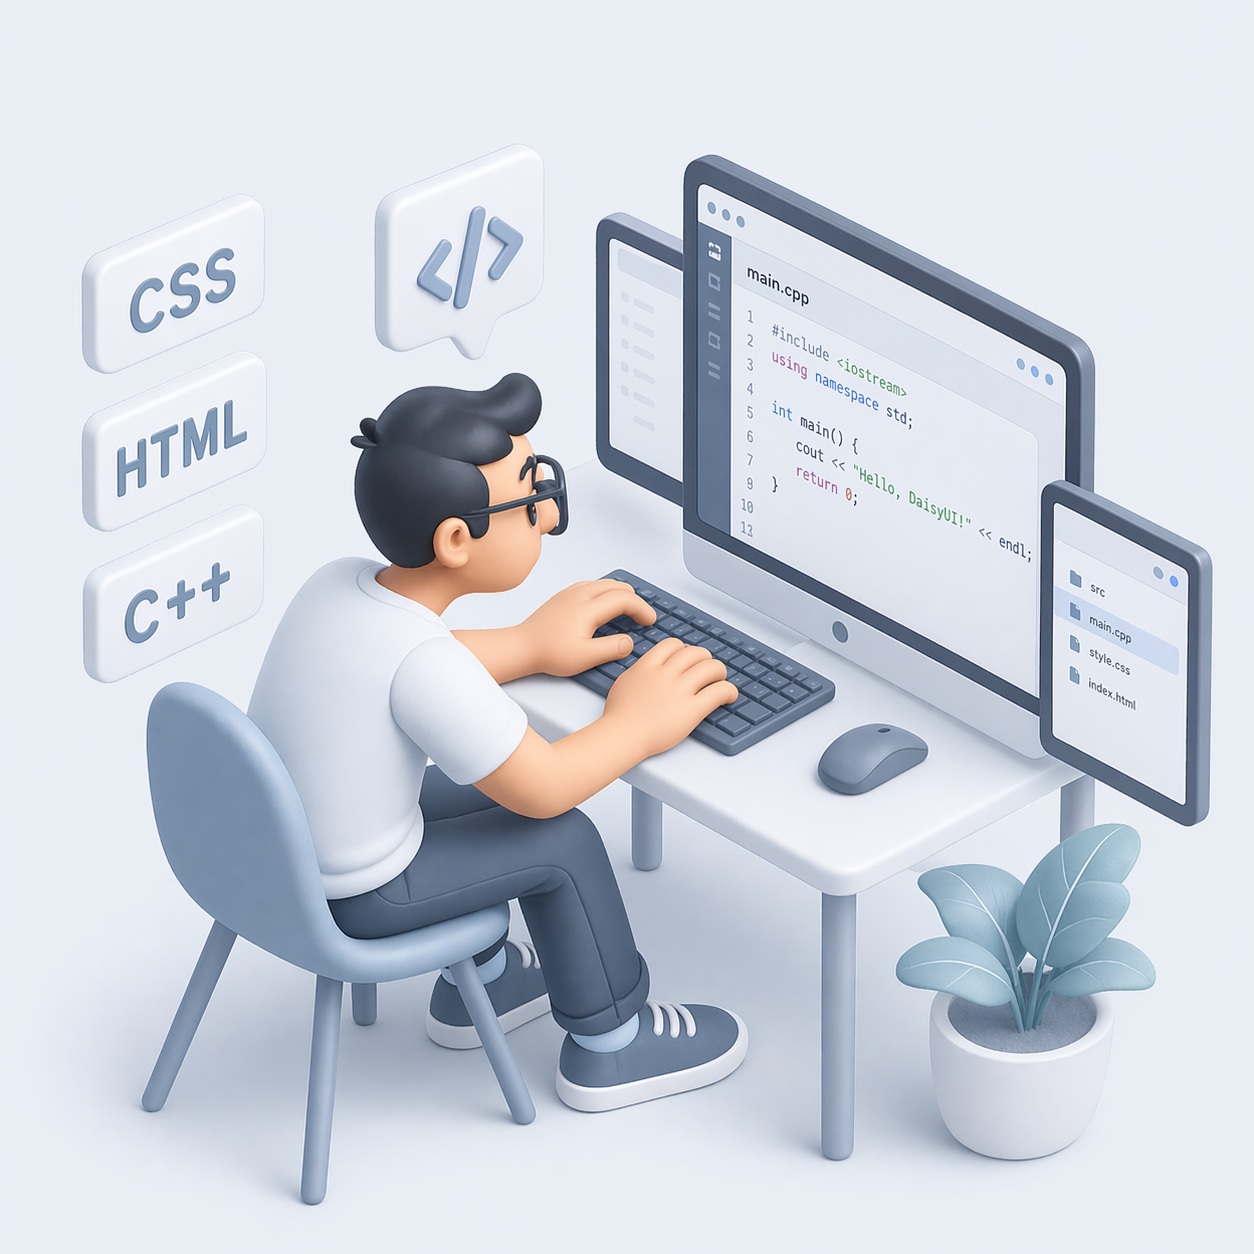
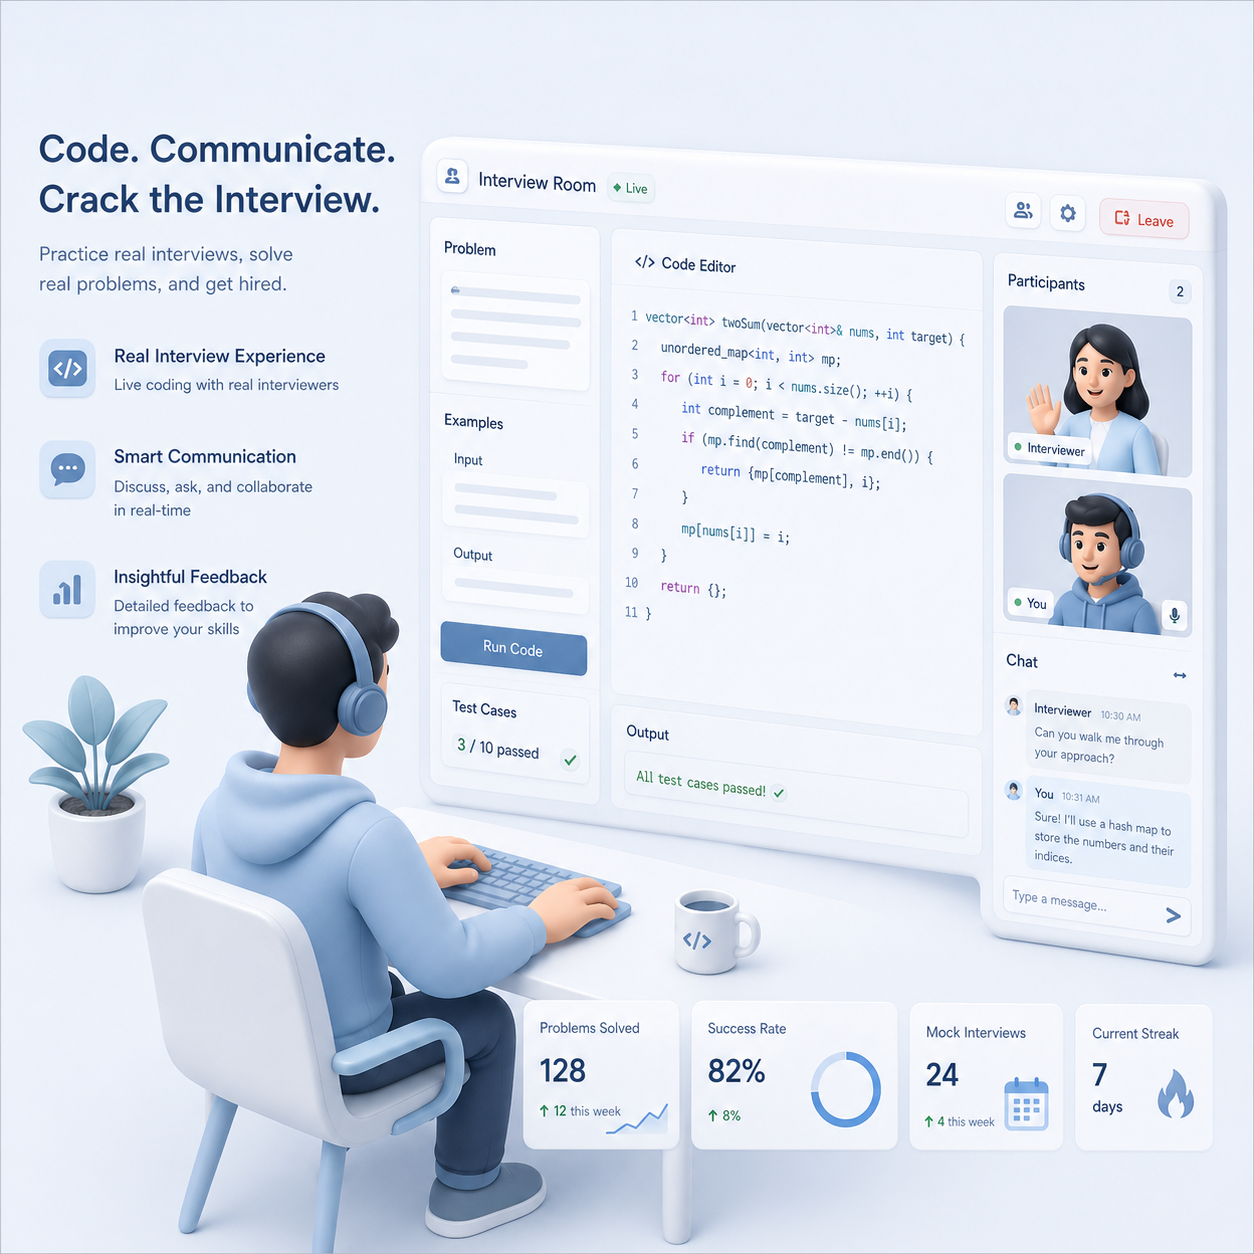
changed picture in HomePage and changed design on phone for ProblemPage

diff --git a/frontend/src/pages/ProblemPage.jsx b/frontend/src/pages/ProblemPage.jsx
@@ -105,9 +105,9 @@ function ProblemPage() {
         <div className='h-screen w-screen bg-base-100 flex flex-col'>
             <Navbar />
 
-            <div className='flex-1'>
+            {/* DESKTOP layout - panels */}
+            <div className='flex-1 hidden md:block'>
                 <PanelGroup direction='horizontal'>
-                    {/* left panel- problem desc */}
                     <Panel defaultSize={40} minSize={30}>
                         <ProblemDescription
                             problem={currentProblem}
@@ -119,10 +119,8 @@ function ProblemPage() {
 
                     <PanelResizeHandle className='w-2 bg-base-300 hover:bg-primary transition-colors cursor-col-resize' />
 
-                    {/* right panel- code editor & output */}
                     <Panel defaultSize={60} minSize={30}>
                         <PanelGroup direction='vertical'>
-                            {/* top panel- code editor */}
                             <Panel defaultSize={70} minSize={30}>
                                 <CodeEditorPanel
                                     selectedLanguage={selectedLanguage}
@@ -133,20 +131,38 @@ function ProblemPage() {
                                     onRunCode={handleRunCode}
                                 />
                             </Panel>
-
                             <PanelResizeHandle className='h-2 bg-base-300 hover:bg-primary transition-colors cursor-row-resize' />
-
-
-                            {/* bottom panel- output pannel */}
                             <Panel defaultSize={30} minSize={30}>
                                 <OutputPanel output={output} />
                             </Panel>
-
                         </PanelGroup>
                     </Panel>
-
                 </PanelGroup>
+            </div>
 
+            {/* MOBILE layout - stacked */}
+            <div className='flex-1 flex flex-col overflow-auto md:hidden'>
+                <div className='h-auto'>
+                    <ProblemDescription
+                        problem={currentProblem}
+                        currentProblemId={currentProblemId}
+                        onProblemChange={handleProblemChange}
+                        allProblems={Object.values(PROBLEMS)}
+                    />
+                </div>
+                <div className='h-64'>
+                    <CodeEditorPanel
+                        selectedLanguage={selectedLanguage}
+                        code={code}
+                        isRunning={isRunning}
+                        onLanguageChange={handleLanguageChange}
+                        onCodeChange={setCode}
+                        onRunCode={handleRunCode}
+                    />
+                </div>
+                <div className='h-40'>
+                    <OutputPanel output={output} />
+                </div>
             </div>
         </div>
     )

diff --git a/frontend/src/pages/HomePage.jsx b/frontend/src/pages/HomePage.jsx
@@ -90,11 +90,6 @@ function HomePage() {
                   <ArrowRightIcon className="size-5" />
                 </button>
               </SignInButton>
-
-              <button className="btn btn-outline btn-lg">
-                <VideoIcon className="size-5" />
-                Watch Demo
-              </button>
             </div>
 
             {/* STATS */}